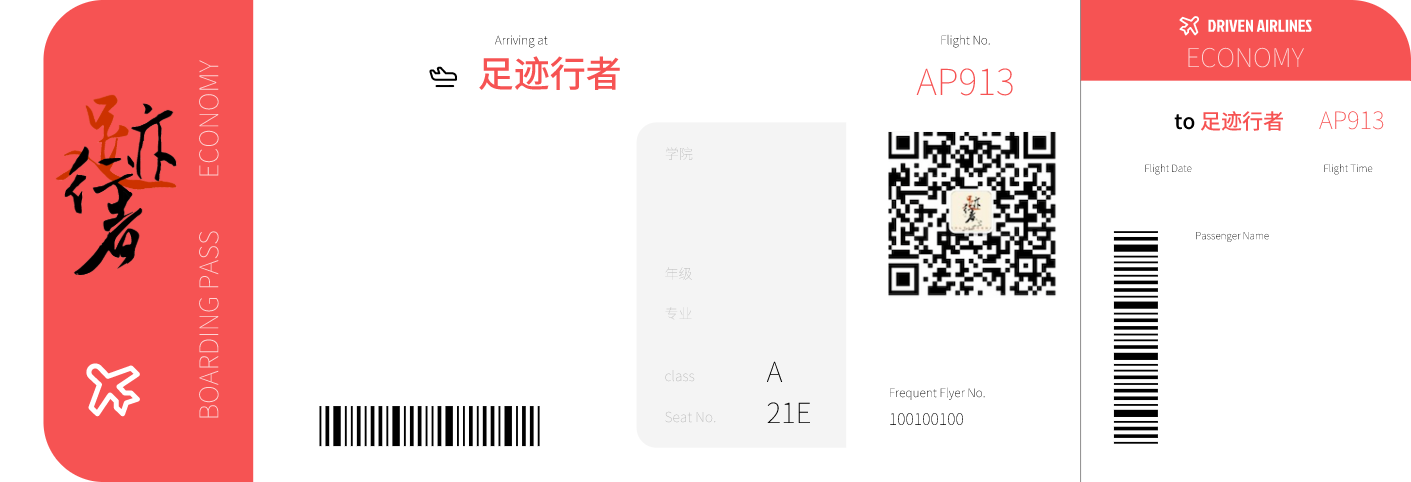
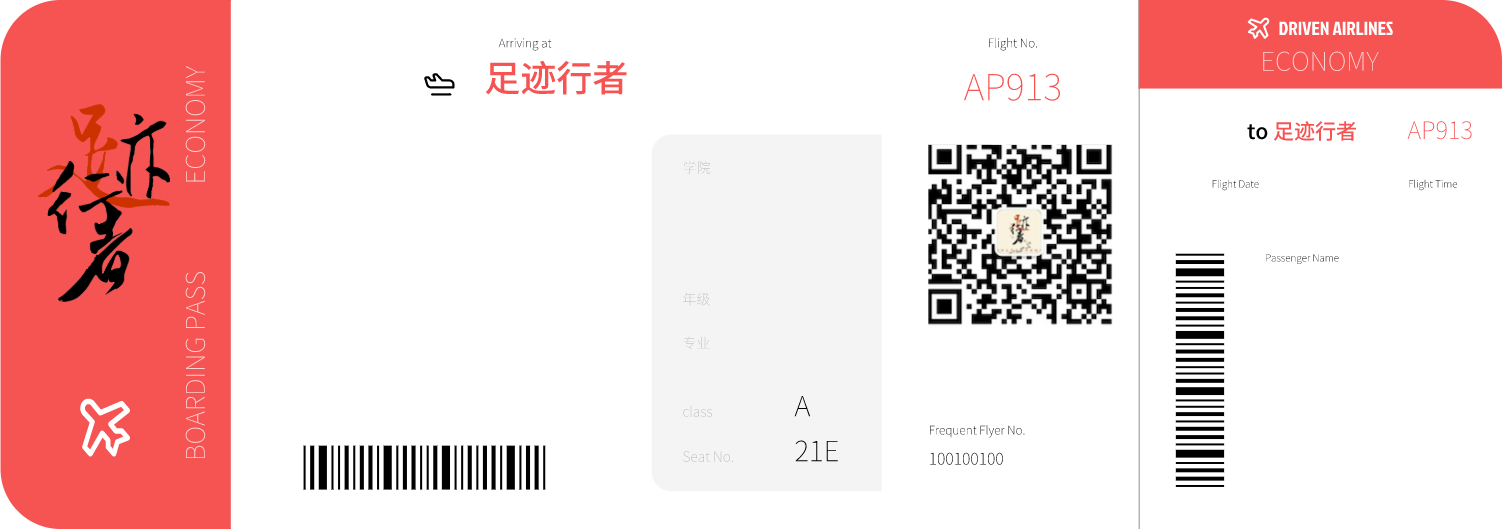
更新ticket图片

diff --git a/FootprintWalker/src/views/Register.vue b/FootprintWalker/src/views/Register.vue
@@ -2,7 +2,7 @@
     <!-- 注册界面 -->
     <div class="Screen">
         <!-- 选择注册方式 -->
-        <div class="chooseRegisterWay">
+        <div v-if="chooseRegister" class="chooseRegisterWay">
             <div class="title text-h3 font-weight-bold">注 册</div>
             <v-container style="margin:20px;">
                 <v-row justify="center">
@@ -18,11 +18,52 @@
             </v-container>
         </div>
         <!-- 校内注册 -->
+        <div v-if="uniRegister" class="Register">
+            <div class="title text-h3 font-weight-bold">校 内 注 册</div>
+            <!-- 显示机票 -->
+            <div class="register-background">
+            
+            </div>
+
+
+        </div>
+        <!-- 校外注册 -->
+        <div v-if="outUniRegister">
+        
+        </div>
+
     </div>
 </template>
   
-<script setup>
-import HelloWorld from '@/components/HelloWorld.vue'
+<script>
+// import HelloWorld from '@/components/HelloWorld.vue'
+export default {
+    data: () => ({
+        chooseRegister:1,        //当这个值为1的时候表示用户正在选择注册的方式
+        uniRegister:0,           //当这个值为1的时候表示用户选择在校注册
+        outUniRegister:0,       //当这个值为1的时候表示用户选择校外注册
+    }),
+    methods: {
+        //处校内注册逻辑
+        UniRegisterHandler() {
+            this.chooseRegister=0;
+            this.uniRegister=1;
+        },
+        //处理校外注册逻辑
+        OutUniRegisterHandler() {
+            this.chooseRegister=0;
+            this.outUniRegister=1;
+        },
+        //处理忘记密码逻辑
+        forgotPasswordHandler() {
+            //将用户重定向到重新设置密码的界面
+            this.$router.push('/set-code')
+
+        },
+    },
+}
+
+
 </script>
 
 <style>
@@ -44,9 +85,25 @@ import HelloWorld from '@/components/HelloWorld.vue'
     position: absolute;
     left: 50%;
     top: 50%;
+    
+    margin: -190px 0 0 -175px;
+    border-radius: 5px;
+    overflow: hidden;
+}
+.Register{
+    position: absolute;
+    left: 50%;
+    top: 50%;
     width: 400px;
     margin: -190px 0 0 -175px;
     border-radius: 5px;
     overflow: hidden;
+}
+.register-background {
+    position: relative;
+    width: 1000px;
+    height: 1000px;
+    background-image: url(../assets/Ticket.png);
+    background-size: 100%;
 }
 </style>
